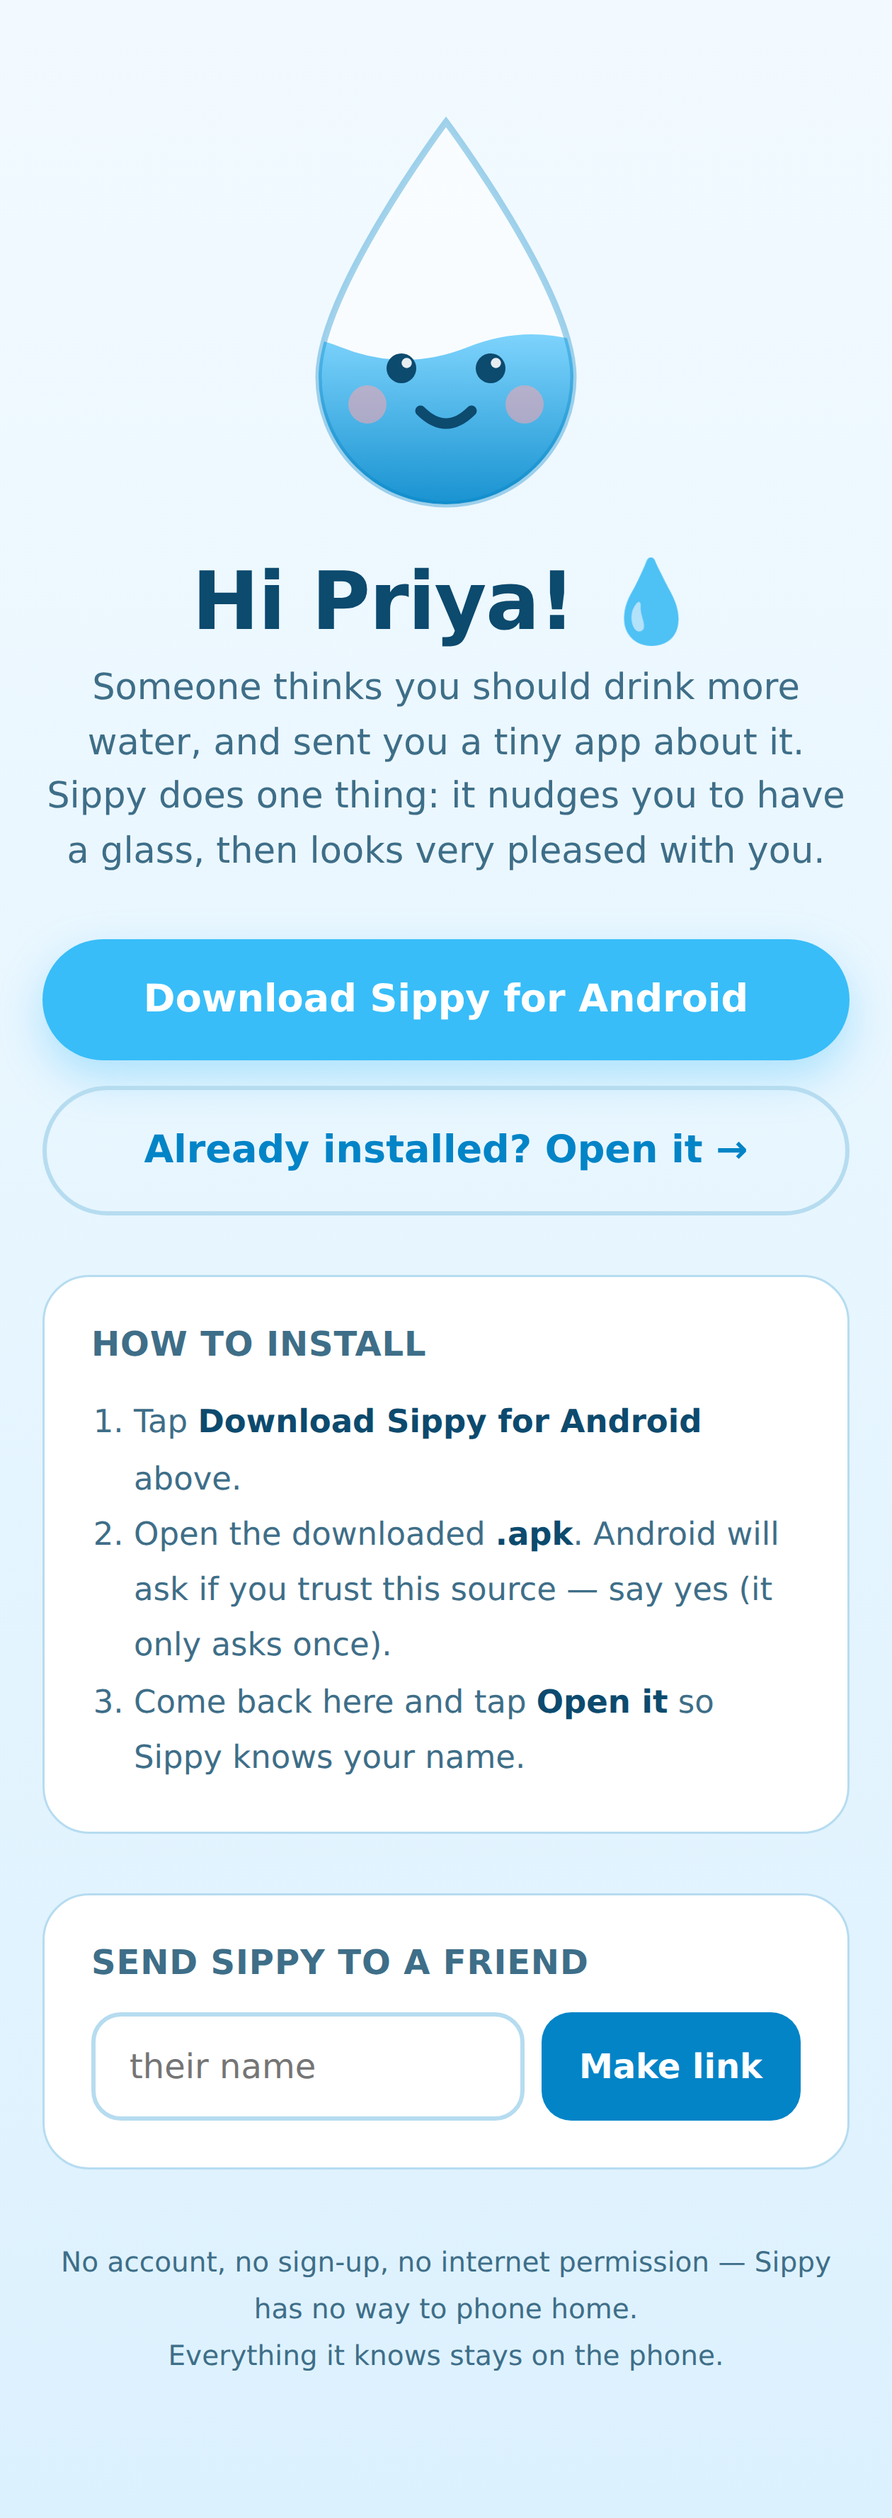
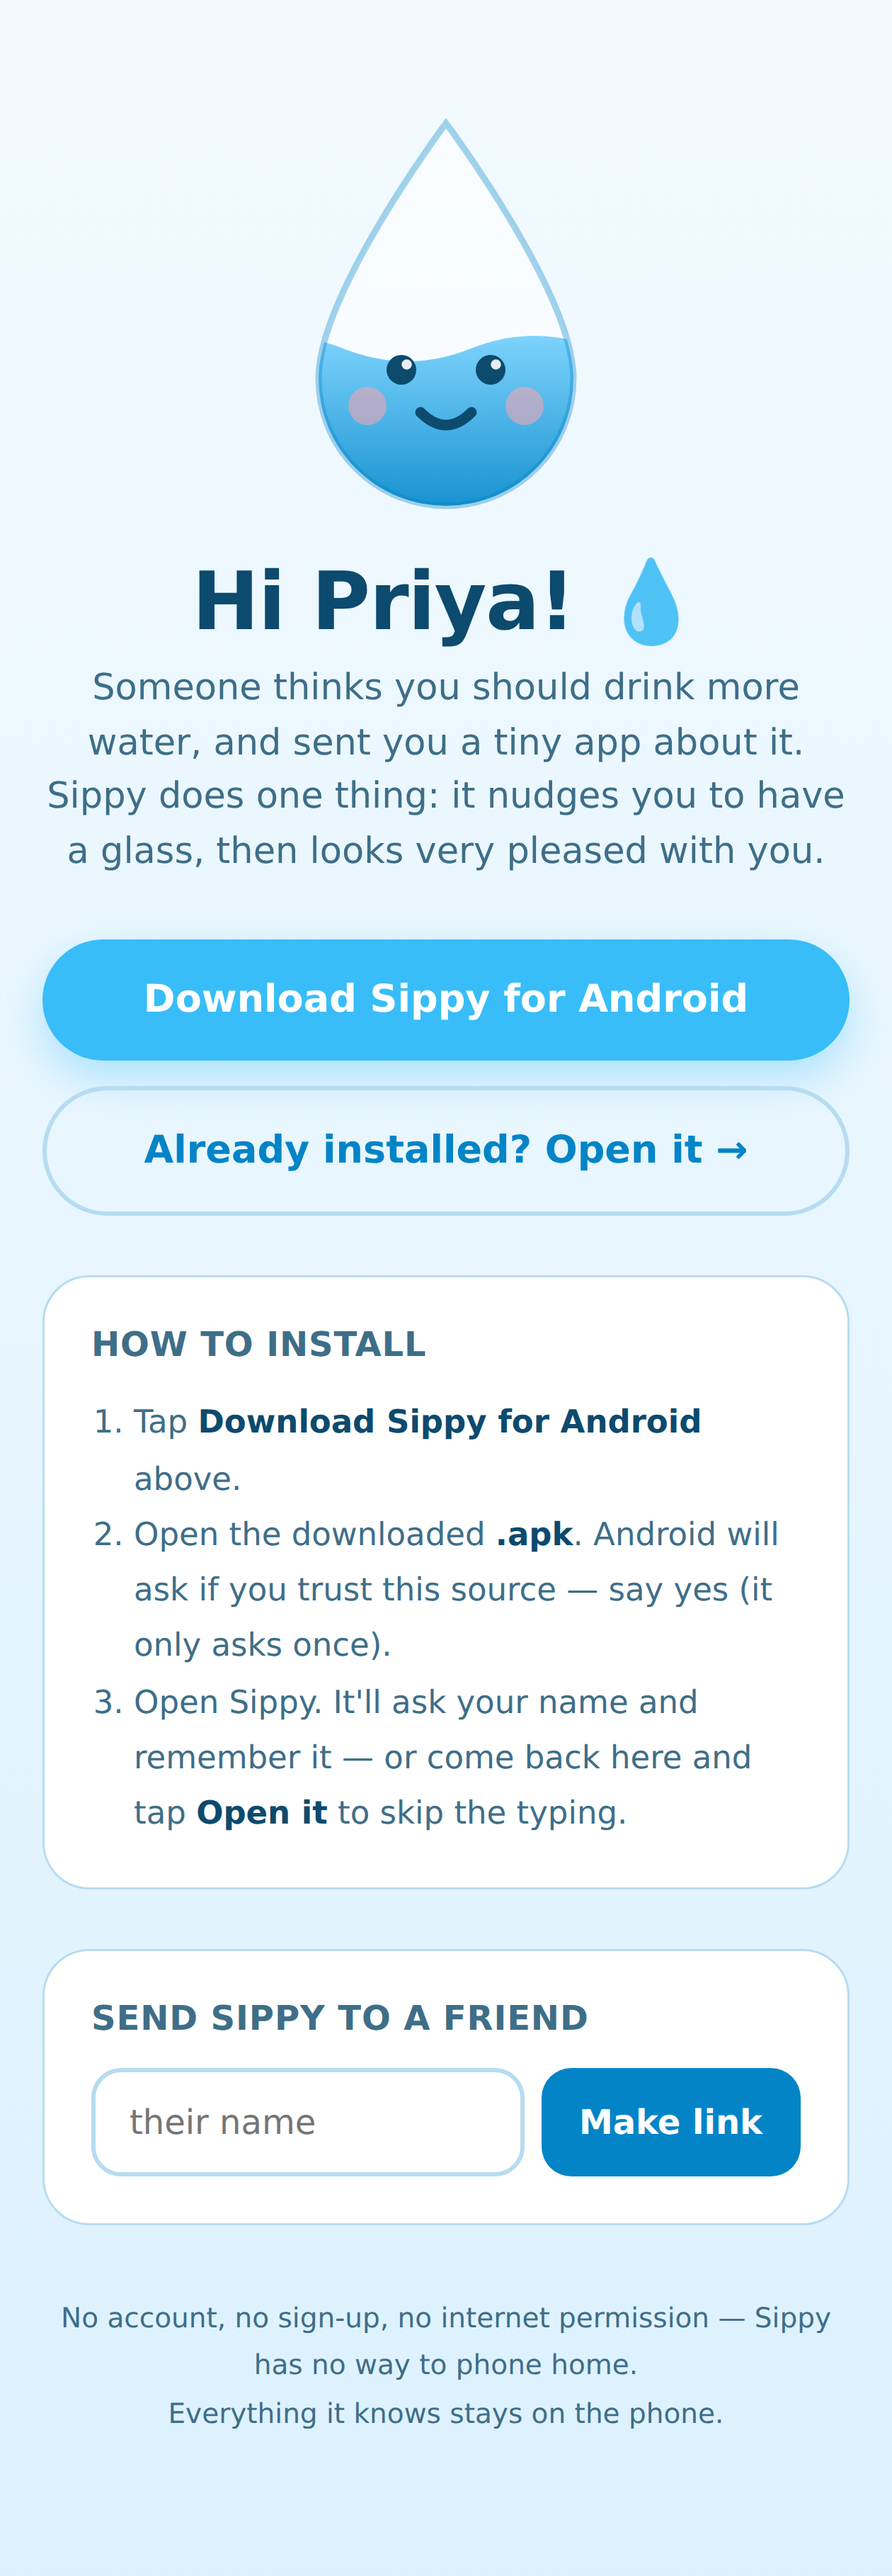
Stop implying the invite link is required to set a name
Step 3 read as though tapping "Open it" was how Sippy learned your name,
which made setup look conditional on returning to the page. It never was:
onboarding asks for the name on first launch and remembers it, and the
link only pre-fills that same field.

Claude-Session: https://claude.ai/code/session_01TEj4QnWToXif5RmZKDE94E

diff --git a/docs/index.html b/docs/index.html
@@ -202,7 +202,8 @@
       <li>Tap <strong>Download Sippy for Android</strong> above.</li>
       <li>Open the downloaded <strong>.apk</strong>. Android will ask if you trust
           this source — say yes (it only asks once).</li>
-      <li id="step3">Come back here and tap <strong>Open it</strong> so Sippy knows your name.</li>
+      <li id="step3">Open Sippy. It'll ask your name and remember it — or come back
+          here and tap <strong>Open it</strong> to skip the typing.</li>
     </ol>
   </div>
 
@@ -245,7 +246,8 @@
     open.href = "sippy://hi?name=" + encodeURIComponent(name);
     open.style.display = "block";
   } else {
-    document.getElementById("step3").textContent = "Open Sippy and tell it your name. That's the whole setup.";
+    document.getElementById("step3").textContent =
+      "Open Sippy. It'll ask your name and remember it. That's the whole setup.";
   }
 
   // Link builder: whatever URL this page is on, plus ?name=
